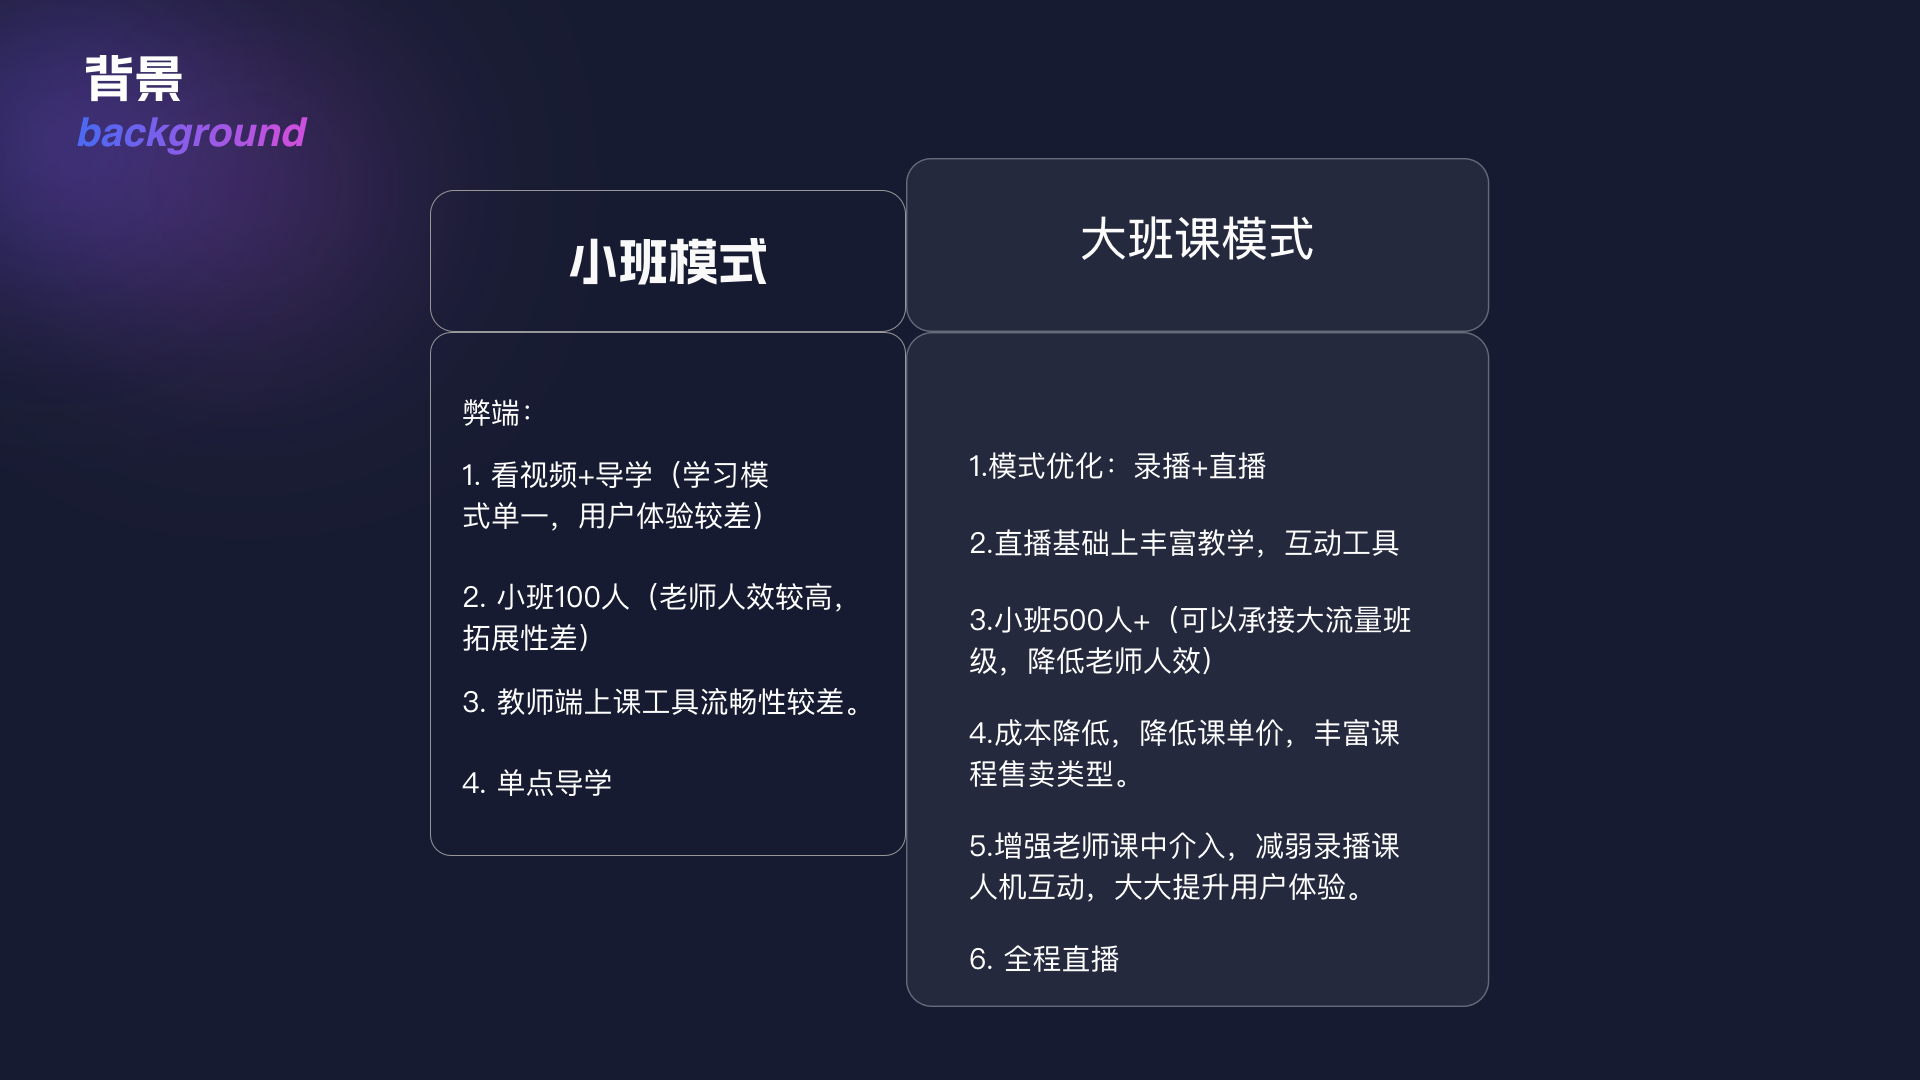
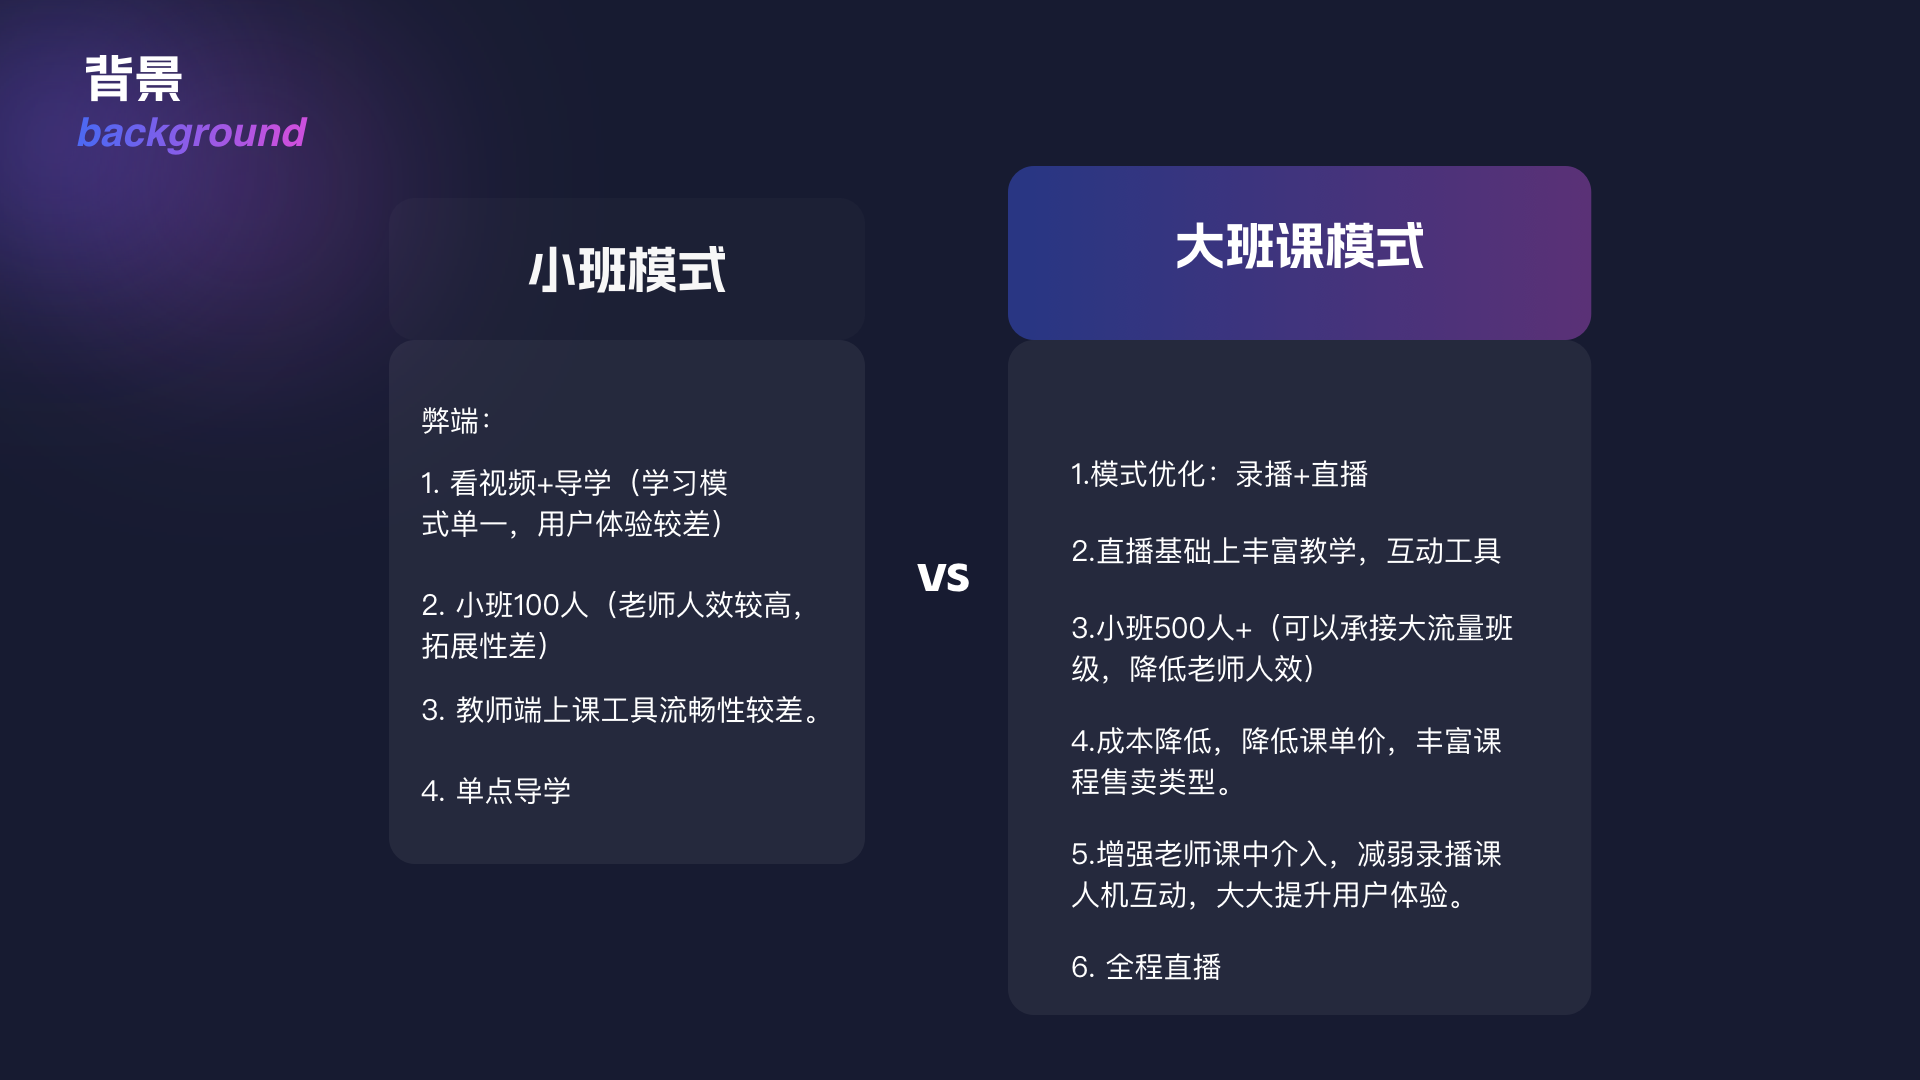
7.15
更新

diff --git a/src/components/SpecularPanel.jsx b/src/components/SpecularPanel.jsx
@@ -1,0 +1,50 @@
+import { useEffect, useRef } from 'react';
+import './SpecularPanel.css';
+
+export default function SpecularPanel({ children, className = '', radius = 21, lineColor = '#ffffff', baseColor = '#525252', intensity = 1, idleIntensity = 0.35, shineSize = 10, shineFade = 34, thickness = 1.2, glow = 1, followMouse = true, proximity = 250 }) {
+  const ref = useRef(null);
+  useEffect(() => {
+    const panel = ref.current;
+    const reduced = matchMedia('(prefers-reduced-motion: reduce)');
+    let angle = -45, level = idleIntensity, targetAngle = angle, targetLevel = level, raf = 0;
+    function paint() {
+      raf = 0;
+      const delta = ((targetAngle - angle + 540) % 360) - 180;
+      angle += reduced.matches ? delta : delta * 0.16;
+      level += reduced.matches ? targetLevel - level : (targetLevel - level) * 0.16;
+      panel.style.setProperty('--sp-angle', `${angle}deg`);
+      panel.style.setProperty('--sp-level', Math.min(1, level * intensity));
+      if (Math.abs(delta) > 0.1 || Math.abs(targetLevel - level) > 0.001) raf = requestAnimationFrame(paint);
+    }
+    function wake() { if (!raf) raf = requestAnimationFrame(paint); }
+    function move(event) {
+      if (!followMouse || event.pointerType === 'touch') return;
+      const r = panel.getBoundingClientRect();
+      const x = event.clientX - (r.left + r.width / 2);
+      const y = event.clientY - (r.top + r.height / 2);
+      const distance = Math.hypot(Math.max(Math.abs(x) - r.width / 2, 0), Math.max(Math.abs(y) - r.height / 2, 0));
+      const near = Math.max(0, 1 - distance / Math.max(1, proximity));
+      targetAngle = near ? Math.atan2(y, x) * 180 / Math.PI + 90 : -45;
+      targetLevel = idleIntensity + (1 - idleIntensity) * near;
+      wake();
+    }
+    function leave() { targetAngle = -45; targetLevel = idleIntensity; wake(); }
+    window.addEventListener('pointermove', move, { passive: true });
+    document.documentElement.addEventListener('pointerleave', leave);
+    paint();
+    return () => {
+      cancelAnimationFrame(raf);
+      window.removeEventListener('pointermove', move);
+      document.documentElement.removeEventListener('pointerleave', leave);
+    };
+  }, [followMouse, proximity, intensity, idleIntensity]);
+  return <div ref={ref} className={`specular-panel ${className}`} style={{
+    '--sp-radius': `${radius}px`, '--sp-color': lineColor, '--sp-base': baseColor,
+    '--sp-width': `${thickness}px`, '--sp-size': `${shineSize / 2}deg`,
+    '--sp-fade': `${shineSize / 2 + shineFade}deg`, '--sp-glow': glow,
+  }}>
+    <span className="specular-panel__rim" aria-hidden="true" />
+    <span className="specular-panel__halo" aria-hidden="true" />
+    {children}
+  </div>;
+}

diff --git a/src/components/SpecularPanel.css b/src/components/SpecularPanel.css
@@ -1,0 +1,62 @@
+.specular-panel {
+  --sp-angle: -45deg;
+  --sp-level: 0.35;
+  --sp-light: conic-gradient(from var(--sp-angle),
+    var(--sp-color) 0deg var(--sp-size), transparent var(--sp-fade),
+    transparent calc(180deg - var(--sp-fade)),
+    color-mix(in srgb, var(--sp-color) 45%, transparent) calc(180deg - var(--sp-size)) calc(180deg + var(--sp-size)),
+    transparent calc(180deg + var(--sp-fade)), transparent calc(360deg - var(--sp-fade)),
+    var(--sp-color) calc(360deg - var(--sp-size)) 360deg);
+  isolation: isolate;
+}
+
+.contact-panel.specular-panel {
+  overflow: visible;
+  border-color: var(--sp-base);
+  border-radius: var(--sp-radius);
+}
+
+.specular-panel__rim,
+.specular-panel__halo {
+  position: absolute;
+  inset: -1px;
+  border-radius: inherit;
+  pointer-events: none;
+}
+
+.specular-panel__rim,
+.specular-panel__halo::before {
+  padding: var(--sp-width);
+  background: var(--sp-light);
+  -webkit-mask: linear-gradient(#fff 0 0) content-box, linear-gradient(#fff 0 0);
+  -webkit-mask-composite: xor;
+  mask: linear-gradient(#fff 0 0) content-box, linear-gradient(#fff 0 0);
+  mask-composite: exclude;
+}
+
+.specular-panel__rim {
+  z-index: 2;
+  opacity: var(--sp-level);
+}
+
+.specular-panel__halo {
+  z-index: 1;
+  filter: blur(5px);
+  opacity: calc(var(--sp-level) * var(--sp-glow) * 0.65);
+}
+
+.specular-panel__halo::before {
+  content: '';
+  position: absolute;
+  inset: 0;
+  border-radius: inherit;
+}
+
+/* Preserve the existing cyan glass tint without extending it beyond the card. */
+.contact-panel.specular-panel::before {
+  inset: 0;
+  width: auto;
+  height: auto;
+  border-radius: inherit;
+  background: radial-gradient(circle at 95% 0, rgba(37, 248, 246, 0.22), transparent 48%);
+}

diff --git a/src/pages/HomePage.jsx b/src/pages/HomePage.jsx
@@ -2,6 +2,7 @@ import { useLayoutEffect, useRef } from "react";
 import BorderGlow from "../components/BorderGlow";
 import HoloCard from "../components/HoloCard";
 import GradientText from "../components/GradientText";
+import SpecularPanel from "../components/SpecularPanel";
 import Layout from "../components/Layout";
 import Link from "../components/Link";
 import { caseStudies } from "../data/cases";
@@ -153,13 +154,13 @@ export default function HomePage() {
         <section className="contact-section" id="contact" aria-labelledby="contact-title">
           <p className="section-display-title"><GradientText colors={["#22d5ff", "#c0f6ff"]} animationSpeed={2} variant="flow" glow={0.15}>CONTACT</GradientText> <span aria-hidden="true">↘</span></p>
           <div className="contact-copy"><p className="eyebrow"><span aria-hidden="true" />CONTACT / 03</p><h2 id="contact-title">让我们聊聊产品体验、AI 设计流程，或下一次合作。</h2></div>
-          <div className="contact-panel">
+          <SpecularPanel className="contact-panel" radius={21} lineColor="#ffffff" baseColor="#525252" intensity={1} idleIntensity={0.35} shineSize={10} shineFade={34} thickness={1.2} glow={1} followMouse proximity={250}>
             <p>CONTACT</p>
             <dl>
               <div><dt>微信</dt><dd>chaihuaxin</dd></div>
               <div><dt>邮箱</dt><dd><a href="mailto:rainychx@126.com">rainychx@126.com</a></dd></div>
             </dl>
-          </div>
+          </SpecularPanel>
         </section>
       </main>
     </Layout>

diff --git a/src/data/cases.js b/src/data/cases.js
@@ -12,9 +12,12 @@ export const caseStudies = [
     title: "在线教育课中互动体系搭建",
     kicker: "Interactive System Design",
     category: "C端产品设计",
-    thumbnail: "/assets/case-online-class-interaction.png",
+    thumbnail: "/assets/case-online-class-interaction.jpg",
     thumbnailSize: [752, 539],
-    images: numberedImages("online-class-interaction-detail", 24, "png"),
+    images: [
+      "/assets/online-class-interaction-detail/cover.png",
+      ...numberedImages("online-class-interaction-detail", 24, "png"),
+    ],
   },
   {
     slug: "teacher-pc",
@@ -30,18 +33,21 @@ export const caseStudies = [
     title: "智学网改版设计",
     kicker: "C-End Product Design",
     category: "C端产品设计",
-    thumbnail: "/assets/case-zhixue-redesign.png",
+    thumbnail: "/assets/case-zhixue-redesign.jpg",
     thumbnailSize: [752, 539],
-    images: numberedImages("zhixue-redesign-detail", 6, "jpg"),
+    images: [
+      "/assets/zhixue-redesign-detail/cover.png",
+      ...numberedImages("zhixue-redesign-detail", 6, "jpg"),
+    ],
   },
   {
     slug: "ai-companion",
     title: "AI 学伴设计",
     kicker: "AIGC Product Design",
     category: "C端产品设计",
-    thumbnail: "/assets/case-ai-companion.png",
+    thumbnail: "/assets/case-ai-companion-new.png",
     thumbnailSize: [752, 539],
-    images: aiCompanionImages,
+    images: ["/assets/ai-companion-detail/cover.jpg", ...aiCompanionImages],
   },
   {
     slug: "ux-upgrade",
